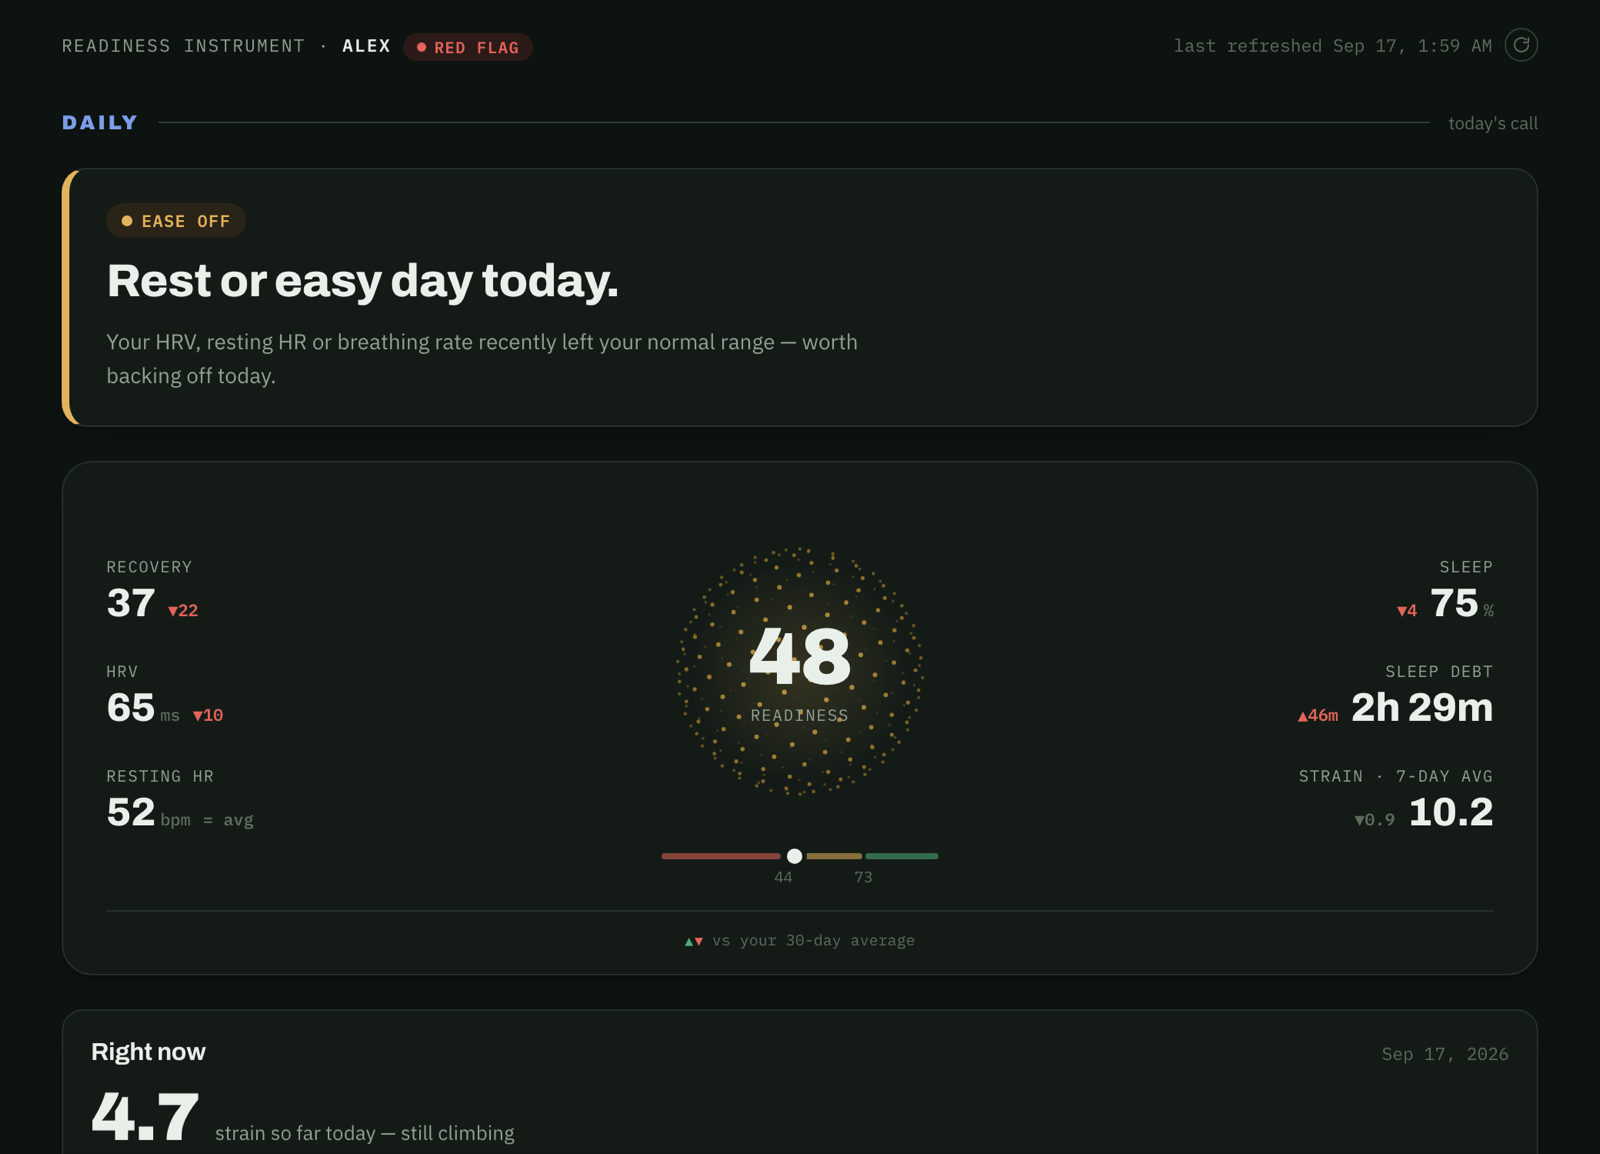
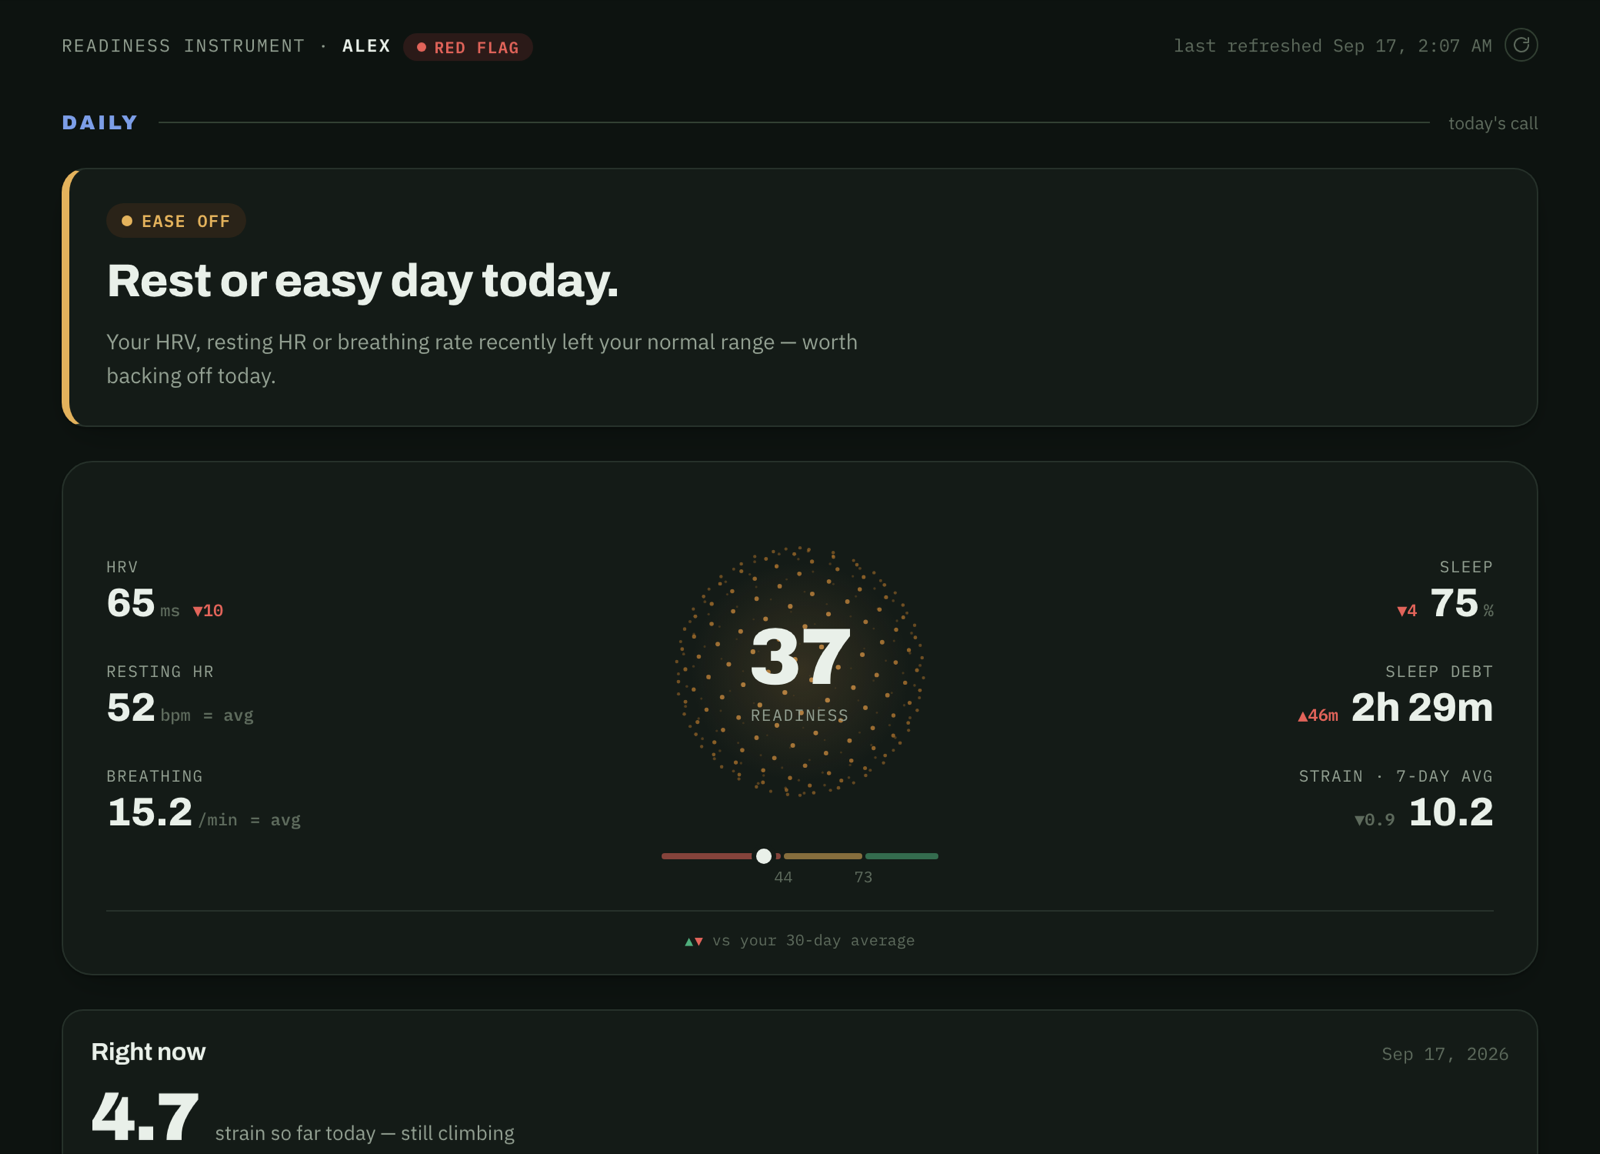
Make readiness the unweighted WHOOP recovery score
The adjustable blend (recovery 45%, sleep performance 25%, 7-vs-28-day
strain 20%, sleep debt 10%) had no research basis and was biased:
- sleep performance is already part of WHOOP recovery (double-counted)
- on real history, load ratio and sleep debt correlated with next-day
  recovery at |r| < 0.06; HRV-based readiness is what the literature supports

Changes:
- Readiness = WHOOP recovery; push/rest lines = own 70th/25th percentile,
  recomputed from current data each render (also fixes stale thresholds
  after a manual refresh)
- Remove the "Adjust the model" sliders and their CSS/JS
- Vitals card: Breathing rate replaces the now-duplicate Recovery stat
- Footer, README ("Why readiness is recovery", with sources), chat
  system prompt, and CLAUDE.md updated

diff --git a/dashboard_template.html b/dashboard_template.html
@@ -169,22 +169,6 @@
   .orb-readout .num{font-family:"Archivo",sans-serif;font-weight:900;font-size:52px;line-height:1;letter-spacing:-0.02em;color:var(--ink);}
   .orb-readout .cap{font-family:"IBM Plex Mono",monospace;font-size:10.5px;letter-spacing:0.08em;text-transform:uppercase;color:var(--ink-muted);margin-top:4px;}
 
-  .controls{background:var(--surface-2);border:1px solid var(--border);border-radius:16px;padding:14px 22px;}
-  .controls summary{display:flex;align-items:center;gap:10px;cursor:pointer;list-style:none;padding:4px 0;}
-  .controls summary::-webkit-details-marker{display:none;}
-  .controls summary::before{content:'›';display:inline-block;font-size:16px;color:var(--ink-faint);transition:transform .15s;transform:rotate(0deg);width:12px;}
-  .controls[open] summary::before{transform:rotate(90deg);}
-  .controls summary .hint{font-size:11.5px;color:var(--ink-faint);}
-  .controls .ctrl-body{padding-top:14px;display:flex;flex-direction:column;gap:14px;}
-  .controls .head{display:flex;align-items:center;justify-content:space-between;gap:10px;flex-wrap:wrap;}
-  .controls h2{font-family:"Archivo",sans-serif;font-size:14.5px;font-weight:700;margin:0;letter-spacing:-0.01em;}
-  .controls .reset{font-family:"IBM Plex Mono",monospace;font-size:11px;color:var(--accent);background:none;border:1px solid var(--border-strong);border-radius:100px;padding:4px 11px;cursor:pointer;}
-  .controls .reset:hover{border-color:var(--accent);}
-  .ctrl-grid{display:grid;grid-template-columns:repeat(auto-fit,minmax(200px,1fr));gap:16px 22px;}
-  .ctrl{display:flex;flex-direction:column;gap:6px;}
-  .ctrl .row{display:flex;justify-content:space-between;align-items:baseline;font-size:12.5px;}
-  .ctrl .row .name{color:var(--ink-muted);}
-  .ctrl .row .val{font-family:"IBM Plex Mono",monospace;color:var(--ink);font-weight:600;}
   input[type="range"]{-webkit-appearance:none;appearance:none;width:100%;height:4px;border-radius:2px;background:var(--border-strong);outline-offset:4px;}
   input[type="range"]::-webkit-slider-thumb{-webkit-appearance:none;appearance:none;width:15px;height:15px;border-radius:50%;background:var(--accent);border:2px solid var(--surface);box-shadow:0 0 0 1px var(--border-strong);cursor:pointer;}
   input[type="range"]::-moz-range-thumb{width:15px;height:15px;border-radius:50%;background:var(--accent);border:2px solid var(--surface);cursor:pointer;}
@@ -445,22 +429,6 @@
     <div id="rightNowBody"></div>
   </section>
 
-  <details class="controls">
-    <summary><h2>Adjust the model</h2><span class="hint">weights, thresholds — rarely needed</span></summary>
-    <div class="ctrl-body">
-      <div class="head"><span></span><button class="reset" id="resetBtn">Reset to defaults</button></div>
-      <div class="ctrl-grid">
-        <div class="ctrl"><div class="row"><span class="name">Recovery weight</span><span class="val mono tnum" id="wRecoveryVal">45%</span></div><input type="range" id="wRecovery" min="0" max="100" value="45" step="5"></div>
-        <div class="ctrl"><div class="row"><span class="name">Sleep performance weight</span><span class="val mono tnum" id="wSleepVal">25%</span></div><input type="range" id="wSleep" min="0" max="100" value="25" step="5"></div>
-        <div class="ctrl"><div class="row"><span class="name">Strain-balance weight</span><span class="val mono tnum" id="wStrainVal">20%</span></div><input type="range" id="wStrain" min="0" max="100" value="20" step="5"></div>
-        <div class="ctrl"><div class="row"><span class="name">Debt-score weight</span><span class="val mono tnum" id="wDebtVal">10%</span></div><input type="range" id="wDebt" min="0" max="100" value="10" step="5"></div>
-        <div class="ctrl"><div class="row"><span class="name">Debt cap (hrs → score 0)</span><span class="val mono tnum" id="debtCapVal">2.1h</span></div><input type="range" id="debtCap" min="1" max="2.5" value="2.1" step="0.1"></div>
-        <div class="ctrl"><div class="row"><span class="name">Push threshold <span style="opacity:.6">(your 70th pct)</span></span><span class="val mono tnum" id="pushThVal">67</span></div><input type="range" id="pushTh" min="30" max="90" value="67" step="1"></div>
-        <div class="ctrl"><div class="row"><span class="name">Rest threshold <span style="opacity:.6">(your 25th pct)</span></span><span class="val mono tnum" id="restThVal">34</span></div><input type="range" id="restTh" min="5" max="60" value="34" step="1"></div>
-      </div>
-    </div>
-  </details>
-
   <section class="card">
     <div class="section-head"><h2>Today's plan</h2></div>
     <div class="section-sub">What to do today and why, built from your own patterns rather than a generic tip list.</div>
@@ -614,7 +582,7 @@
   <footer>
     <div class="grp">
       <b>Measured vs. modeled</b>
-      <span>Every chart, table and number on this page is your real WHOOP data, across <span id="totalDaysNote">—</span> — except the "Readiness" number and the daily call, which are a blend I built on top (weights are the sliders above). Recovery and sleep performance overlap somewhat since one feeds the other, so sleep is intentionally the smaller of the two weights. The debt term is small on purpose too — it's real, but it's a weak predictor for you specifically, worth revisiting in a few months once there's more data.</span>
+      <span>Every number on this page is your WHOOP data or a direct calculation from it, across <span id="totalDaysNote">—</span>. Readiness is your WHOOP recovery score, unweighted; the push and rest lines are your own 70th and 25th percentile. Training load, rest days and body signals don't change the number — they raise a Red flag instead.</span>
     </div>
     <div class="grp">
       <b>About the orb</b>
@@ -698,24 +666,22 @@ function percentile(vals, p){
   if(f===c) return s[f];
   return s[f] + (s[c]-s[f])*(k-f);
 }
-const RECOVERY_ALL = DATA.full_series.recovery.map(p=>p.v);
-const PCT_PUSH = Math.round(percentile(RECOVERY_ALL, 70));
-const PCT_REST = Math.round(percentile(RECOVERY_ALL, 25));
-
-function readCtrl(){
-  return { wRecovery:+$('wRecovery').value, wSleep:+$('wSleep').value, wStrain:+$('wStrain').value, wDebt:+$('wDebt').value,
-    debtCap:+$('debtCap').value, pushTh:+$('pushTh').value, restTh:+$('restTh').value };
+// Readiness = WHOOP's own recovery score (HRV-driven, already folds in resting HR,
+// breathing rate and sleep). No custom weights: tested on real history, sleep
+// performance was double-counted and 7-vs-28-day load / sleep debt carried ~no
+// signal for next-day recovery (|r| < 0.06), so load and rest-day problems are
+// handled as explicit Red flag rules instead of being blended into the number.
+// Push/rest lines are this person's own 70th/25th recovery percentiles, recomputed
+// from the current data on every render (so a manual refresh updates them too).
+function thresholds(){
+  const all = DATA.full_series.recovery.map(p => p.v).filter(v => v != null);
+  if(!all.length) return { pushTh: 67, restTh: 34 };
+  return { pushTh: Math.round(percentile(all, 70)), restTh: Math.round(percentile(all, 25)) };
 }
-function computeReadiness(ctrl){
+function computeReadiness(){
   const L = DATA.latest;
-  const strainRatio = DATA.avg7_strain / DATA.avg30.strain;
-  const strainScore = clamp(50 - (strainRatio-1) * 166.667, 0, 100);
-  const debtScore = clamp(100 * (1 - L.sleep_debt_hours/ctrl.debtCap), 0, 100);
-  const totalW = ctrl.wRecovery + ctrl.wSleep + ctrl.wStrain + ctrl.wDebt || 1;
-  const raw = ctrl.wRecovery*L.recovery_score + ctrl.wSleep*L.sleep_performance_percentage
-            + ctrl.wStrain*strainScore + ctrl.wDebt*debtScore;
-  const readiness = raw/totalW;
-  return { readiness, strainScore, strainRatio, debtScore };
+  const strainRatio = DATA.avg30.strain ? DATA.avg7_strain / DATA.avg30.strain : 1; // context for copy/tips only
+  return { readiness: L.recovery_score, strainRatio };
 }
 function decisionState(readiness, ctrl){
   if(readiness >= ctrl.pushTh) return 'push';
@@ -740,8 +706,8 @@ function decisionCopy(state, readiness, ctrl, calc){
     why:`Recovery is <b>${Math.round(L.recovery_score)}</b>, on the low side for you, and ${reason}. A lighter day protects the rest of the week.` };
 }
 function renderDecision(){
-  const ctrl = readCtrl();
-  const calc = computeReadiness(ctrl);
+  const ctrl = thresholds();
+  const calc = computeReadiness();
   const readiness = calc.readiness;
   const state = decisionState(readiness, ctrl);
 
@@ -900,9 +866,9 @@ function renderStats(){
   // better: +1 = higher is better, -1 = lower is better, 0 = neutral (no good/bad color)
   const stats = {
     body: [
-      {label:'Recovery', value:L.recovery_score, avg:A.recovery_score, series:'recovery', fmt:int, dfmt:int, better:1, tol:2},
       {label:'HRV', unit:'ms', value:L.hrv_rmssd_milli, avg:A.hrv_rmssd_milli, series:'hrv', fmt:int, dfmt:int, better:1, tol:2},
       {label:'Resting HR', unit:'bpm', value:L.resting_heart_rate, avg:A.resting_heart_rate, series:'rhr', fmt:int, dfmt:int, better:-1, tol:1},
+      {label:'Breathing', unit:'/min', value:L.respiratory_rate, avg:meanOf(lastN('respiratory_rate', 30)), series:'respiratory_rate', fmt:fmt1, dfmt:fmt1, better:-1, tol:0.3},
     ],
     load: [
       {label:'Sleep', unit:'%', value:L.sleep_performance_percentage, avg:A.sleep_performance_percentage, series:'sleep_performance', fmt:int, dfmt:int, better:1, tol:2},
@@ -1328,7 +1294,7 @@ function renderExplorer(){
   `;
 
   const refLines = metricDef.refLines==='personal'
-    ? [{v:+$('pushTh').value, color:'var(--good)'},{v:+$('restTh').value, color:'var(--critical)'}]
+    ? (t => [{v:t.pushTh, color:'var(--good)'},{v:t.restTh, color:'var(--critical)'}])(thresholds())
     : metricDef.refLines;
   const fixedTicks = (metricDef.bounds && metricDef.bounds[0]===0 && metricDef.bounds[1]===100) ? [0,25,50,75,100] : null;
   lineChart('explorerChartWrap','explorerTooltip', points, {color:'var(--accent)', unit:metricDef.unit, decimals:dec, refLines, valueFormatter:metricDef.formatter, bounds:metricDef.bounds, fixedTicks});
@@ -1682,14 +1648,6 @@ function renderCoverage(){
   $('totalDaysNote').textContent = `${DATA.n_days_total} days on record (${fmtDate(start)} → ${fmtDate(end)})`;
 }
 
-const DEFAULTS = {wRecovery:45, wSleep:25, wStrain:20, wDebt:10, debtCap:2.1, pushTh:PCT_PUSH, restTh:PCT_REST};
-function wireControls(){
-  const ids = ['wRecovery','wSleep','wStrain','wDebt','debtCap','pushTh','restTh'];
-  const labels = {wRecovery:v=>v+'%', wSleep:v=>v+'%', wStrain:v=>v+'%', wDebt:v=>v+'%', debtCap:v=>fmt1(v)+'h', pushTh:v=>v, restTh:v=>v};
-  for(const id of ids){ $(id).value = DEFAULTS[id]; $(id+'Val').textContent = labels[id](DEFAULTS[id]); }
-  for(const id of ids){ $(id).addEventListener('input', ()=>{ $(id+'Val').textContent = labels[id](+$(id).value); renderDecision(); if((id==='pushTh'||id==='restTh') && curMetric==='recovery') renderExplorer(); }); }
-  $('resetBtn').addEventListener('click', ()=>{ for(const id of ids){ $(id).value = DEFAULTS[id]; $(id+'Val').textContent = labels[id](DEFAULTS[id]); } renderDecision(); if(curMetric==='recovery') renderExplorer(); });
-}
 function renderAll(){
   renderStats();
   renderRightNow();
@@ -1709,7 +1667,6 @@ function renderAll(){
   renderCoverage();
   renderDecision();
 }
-wireControls();
 renderAll();
 firstPaint = false;
 window.addEventListener('resize', ()=>{ renderExplorer(); renderStageChart(); renderMonthly(); renderWeekday(); renderACWR(); renderMonotony(); renderZoneDistribution(); });

diff --git a/chat_server.py b/chat_server.py
@@ -52,6 +52,8 @@ numbers where it helps.
 - Not medical advice: for pain, illness, or worrying symptoms, suggest seeing a professional.
 
 Dashboard terms they may ask about:
+- Readiness: exactly their WHOOP recovery score (no custom weights). Push threshold = their \
+70th-percentile recovery, rest threshold = their 25th percentile.
 - Badges, checked in order: Red flag (HRV, resting HR, or breathing rate outside their normal \
 range in the last 14 days — normal = their last 30 nights — OR all three of: 7+ days since a \
 rest day, this week harder than 80%+ of recent weeks, and last-7-days vs last-28-days load \

diff --git a/README.md b/README.md
@@ -55,9 +55,9 @@ behind it, calibrated to **your own** history rather than generic cut-offs.
   can never contradict each other.
 - **Day badge** (Red flag · Recovery · Peak · Grind). Click it to see today's numbers
   next to the line where each one flags, and how every badge is decided.
-- **Readiness score** blending recovery, sleep performance, recent load, and sleep
-  debt, with a scale showing where today sits between *your* rest and push thresholds.
-- **Vitals at a glance** — recovery, HRV, resting HR, sleep, sleep debt, and 7-day
+- **Readiness score** — your WHOOP recovery, unweighted and untweakable, on a scale
+  showing where today sits between *your* rest and push thresholds.
+- **Vitals at a glance** — HRV, resting HR, breathing rate, sleep, sleep debt, and 7-day
   strain, each with its change vs your 30-day average (green = better, red = worse).
 - **Today's plan** — which kind of session fits today, based on how *you* have
   recovered from each sport before.
@@ -190,7 +190,7 @@ Everything is computed from your own history. Thresholds adapt to you.
 
 | Metric | Definition | Flags at |
 |---|---|---|
-| **Readiness** | Weighted blend: recovery 45%, sleep performance 25%, 7-day vs 30-day strain 20%, sleep debt 10% | Peak ≥ your 70th-percentile recovery · Recovery < your 25th percentile |
+| **Readiness** | Your WHOOP recovery score, unweighted (see [why](#why-readiness-is-recovery)) | Peak ≥ your 70th-percentile recovery · Recovery < your 25th percentile |
 | **Load ratio (ACWR)** | Last-7-day average strain ÷ last-28-day average | Safe 0.8–1.3 · Caution 1.3–1.5 · High > 1.5 |
 | **Training variety** | Foster monotony (weekly mean ÷ SD of daily strain) × weekly load | This week above 80% of your last 16 weeks |
 | **Fatigue signal** | Each night's HRV, resting HR, and breathing rate vs your previous 30 nights | Outside ±1.5 standard deviations (shown in the app as plain limits, e.g. "flags at 16.4+ /min") |
@@ -206,8 +206,24 @@ Everything is computed from your own history. Thresholds adapt to you.
 3. **Peak** — readiness at or above your push threshold.
 4. **Grind** — everything in between.
 
-Readiness and the daily call are a model built on top of WHOOP's scores; every other
-number is WHOOP data or a direct calculation from it.
+### Why readiness is recovery
+
+An earlier version blended recovery (45%), sleep performance (25%), 7-day vs 28-day
+strain (20%), and sleep debt (10%) behind adjustable sliders. We removed it because:
+
+- **No study has validated weights** for a composite like that. The best-supported daily
+  readiness signal is HRV against your own baseline
+  ([Manresa-Rocamora et al., 2021](https://pubmed.ncbi.nlm.nih.gov/34639599/)) — which is
+  what WHOOP recovery is built on, together with resting HR, breathing rate, and sleep
+  ([WHOOP](https://www.whoop.com/us/en/thelocker/how-does-whoop-recovery-work-101/)).
+- **Sleep performance was counted twice** — it's already inside recovery.
+- **The extra terms carried no signal.** Across ~600 days of real data, the 7-to-28-day
+  load ratio and sleep debt each correlated with next-day recovery at |r| < 0.06, and
+  the ratio's validity for injury prediction is disputed
+  ([Impellizzeri et al., 2020](https://www.researchgate.net/publication/341936245_AcuteChronic_Workload_Ratio_Conceptual_Issues_and_Fundamental_Pitfalls)).
+
+So the number stays pure, and load, rest days, and body signals are shown as explicit
+**Red flag** rules — visible, checkable, and never hidden inside a weight.
 
 ## Architecture
 

diff --git a/CLAUDE.md b/CLAUDE.md
@@ -42,6 +42,9 @@ python3 scripts/privacy_scan.py [--staged]          # must be clean before any p
 - **Nothing automatic.** No timers/auto-refresh; data refreshes only via the button.
 - **One decision chain.** Badge, pill, and headline all come from `renderDecision()` — never
   compute them separately.
+- **Readiness = WHOOP recovery, unweighted.** No user-tunable weights or sliders. Other factors
+  (load, rest days, body signals) become explicit Red flag rules, never hidden weights. Any new
+  factor must show real predictive signal on data before it touches the decision.
 - Add a test for new metrics or server behavior; run tests + privacy scan before pushing.
 
 ## UI / product conventions
